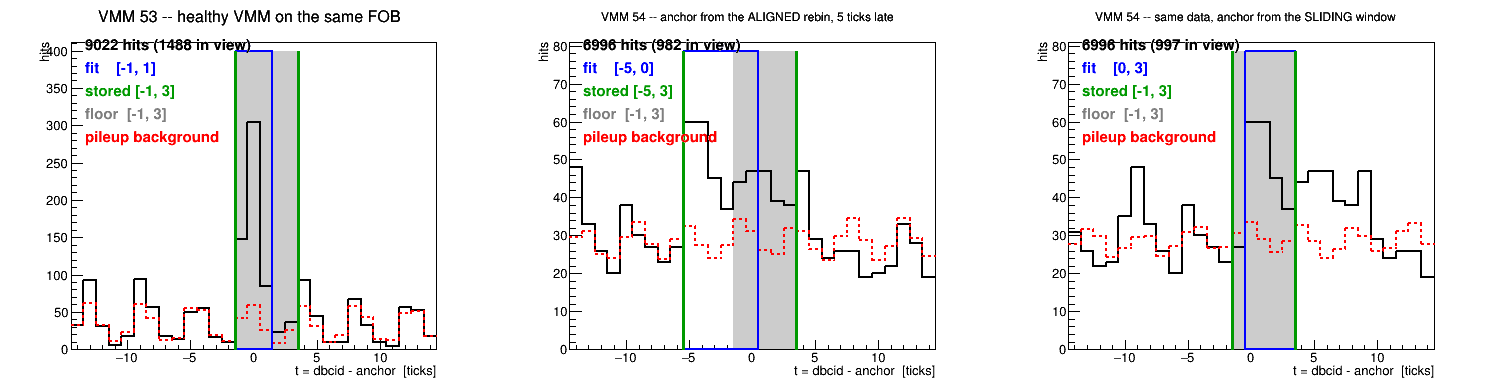
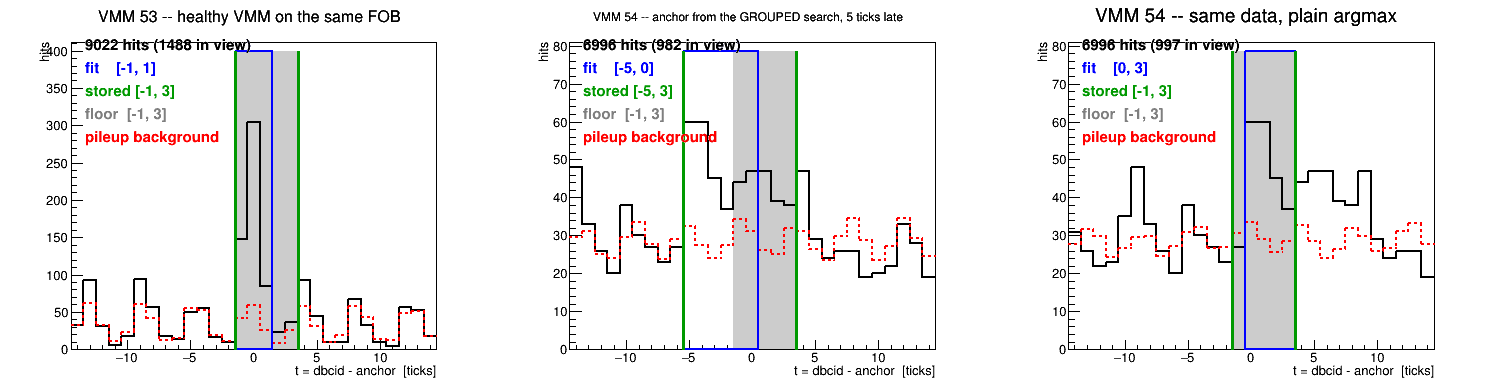
FTT timecut page: the anchor grouping is gone, not just unaligned
Says what the macro now does -- the plain argmax over single dbcid values,
which is also what HitCalibHelper does -- and carries the measurement that
justified dropping the grouping rather than keeping an unaligned version of it.
Figures and counts updated: 360 of 360 for 23081049, 355 + 2 for 24192017.

Claude-Session: https://claude.ai/code/session_01Ja7z3XUfUqiVzkNQkoczor

Changed region(s): [[0.7072, 0.0, 0.9532, 0.0612], [0.3997, 0.0306, 0.615, 0.0612]]

diff --git a/ftt_sim_hit_maker/timecut/index.html b/ftt_sim_hit_maker/timecut/index.html
@@ -509,17 +509,28 @@ neither was asking for a good reason.</p>
       4.263-tick crossing &mdash; gaining 7 counts of signal at t=+3 for 16 of background,
       window S/B 1.48 against 2.81 for a healthy VMM on the same FOB. The growth range is
       now <b>half a bunch period</b>, which cannot reach a neighbour by construction.
-  <li><b>The anchor search lost a weak peak that straddled a bin group.</b> It used a
-      rebin by 4, i.e. windows aligned to multiples of 4. VMM 54's real peak is 60+60 counts
-      at dbcid 1070,1071 over a level of 25 &mdash; 7.0&sigma; per tick, 9.9&sigma; together,
+  <li><b>The anchor search lost a weak peak that straddled a bin group.</b> It grouped
+      four bins first, aligned to multiples of 4. VMM 54's real peak is 60+60 counts at
+      dbcid 1070,1071 over a level of 25 &mdash; 7.0&sigma; per tick, 9.9&sigma; together,
       so certainly not a fluctuation, just weak (contrast 2.4 where its FOB mate has 14).
       But 1071 is the last bin of its group, which summed 170, while two neighbouring groups
       holding only the broad tail summed 173 and 171. The anchor came out 1075, five ticks
-      late, and the window fit then chased the peak to [-5,0]. The search is now a
-      <b>sliding</b> 4-tick window, which has no boundary to straddle: it finds 1069..1072 =
-      192 and refines to 1070 &mdash; the raw argmax, and the anchor of all three of its FOB
-      mates.
+      late, and the window fit then chased the peak to [-5,0]. The grouping is now gone
+      entirely: the anchor is the plain argmax over single dbcid values, which for VMM 54 is
+      1070 &mdash; the anchor of all three of its FOB mates.
 </ul>
+<p>Dropping the grouping rather than just unaligning it is also what matches the consumer:
+<tt>HitCalibHelper::add()</tt> keeps a running argmax over single dbcid values. And the
+grouping, which was there to help when statistics are thin, measurably does not. Counting
+the VMMs whose anchor disagrees with the median of their FOB mates &mdash; anchors are a
+property of the board, so the three mates are the check &mdash; plain argmax against a
+sliding 4-tick sum:</p>
+<pre>23081049  pp field on, 4063 hits/VMM    17 / 360  vs  17 / 360
+24192017  AuAu,        ~1000 hits/VMM   29 / 354  vs  29 / 354
+25174011  zero field,  7206 hits/VMM    88 / 344  vs  88 / 344
+25174011  zero field,   522 hits/VMM    92 / 330  vs  93 / 330</pre>
+<p>identical everywhere except the thinnest case, where the plain argmax is slightly
+better.</p>
 
 <TABLE BORDER="1" CELLPADDING="4" CELLSPACING="0">
 <TR BGCOLOR="#c0c0f0"><TH>VMM 54: the same data read against two anchors</TH></TR>
@@ -530,21 +541,20 @@ neither was asking for a good reason.</p>
 <p>Run 23081049, 200 events. Black = raw counts at <tt>t = dbcid - anchor</tt>, red dashed =
 the phase-matched pileup background, grey = the floor, blue = what the fit asked for, green =
 what is stored. Top row: a healthy VMM of that FOB, then VMM 54 against the anchor the
-aligned rebin returned, then <b>the identical histogram</b> against the anchor the sliding
-window returns. Nothing about the data differs between the last two &mdash; only where t=0
+grouped search returned, then <b>the identical histogram</b> against the plain argmax. Nothing about the data differs between the last two &mdash; only where t=0
 is put. Bottom row: three of the busiest VMMs in the run (9.3-9.4k hits each), where the fit
 asks for [-1,1] or [-1,2] and the floor keeps [-1,3].</p>
 
-<p><b>With both fixed, every calibrated VMM of run 23081049 stores [-1,3]</b> &mdash; 361 of
-361, no outliers at all, where before there were four. AuAu 24192017 is 354 [-1,3] and 2
+<p><b>With both fixed, every calibrated VMM of run 23081049 stores [-1,3]</b> &mdash; 360 of
+360, no outliers at all, where before there were four. AuAu 24192017 is 355 [-1,3] and 2
 [-2,3].</p>
 
 <H2>What comes out</H2>
 <TABLE BORDER="1" CELLPADDING="4" CELLSPACING="0">
 <TR BGCOLOR="#c0c0f0"><TH>run</TH><TH>stored windows</TH><TH>what the fit alone said</TH></TR>
-<TR><TD>23081049, 2022 field on</TD><TD><b>361 [-1,3]</b>, nothing else</TD>
+<TR><TD>23081049, 2022 field on</TD><TD><b>360 [-1,3]</b>, nothing else</TD>
     <TD>mostly [-1,1] and [-1,2]</TD></TR>
-<TR><TD>24192017, 2023 AuAu</TD><TD>354 [-1,3], 2 [-2,3]</TD>
+<TR><TD>24192017, 2023 AuAu</TD><TD>355 [-1,3], 2 [-2,3]</TD>
     <TD>mostly [-1,2] and [-1,1]</TD></TR>
 </TABLE>
 <ul>
